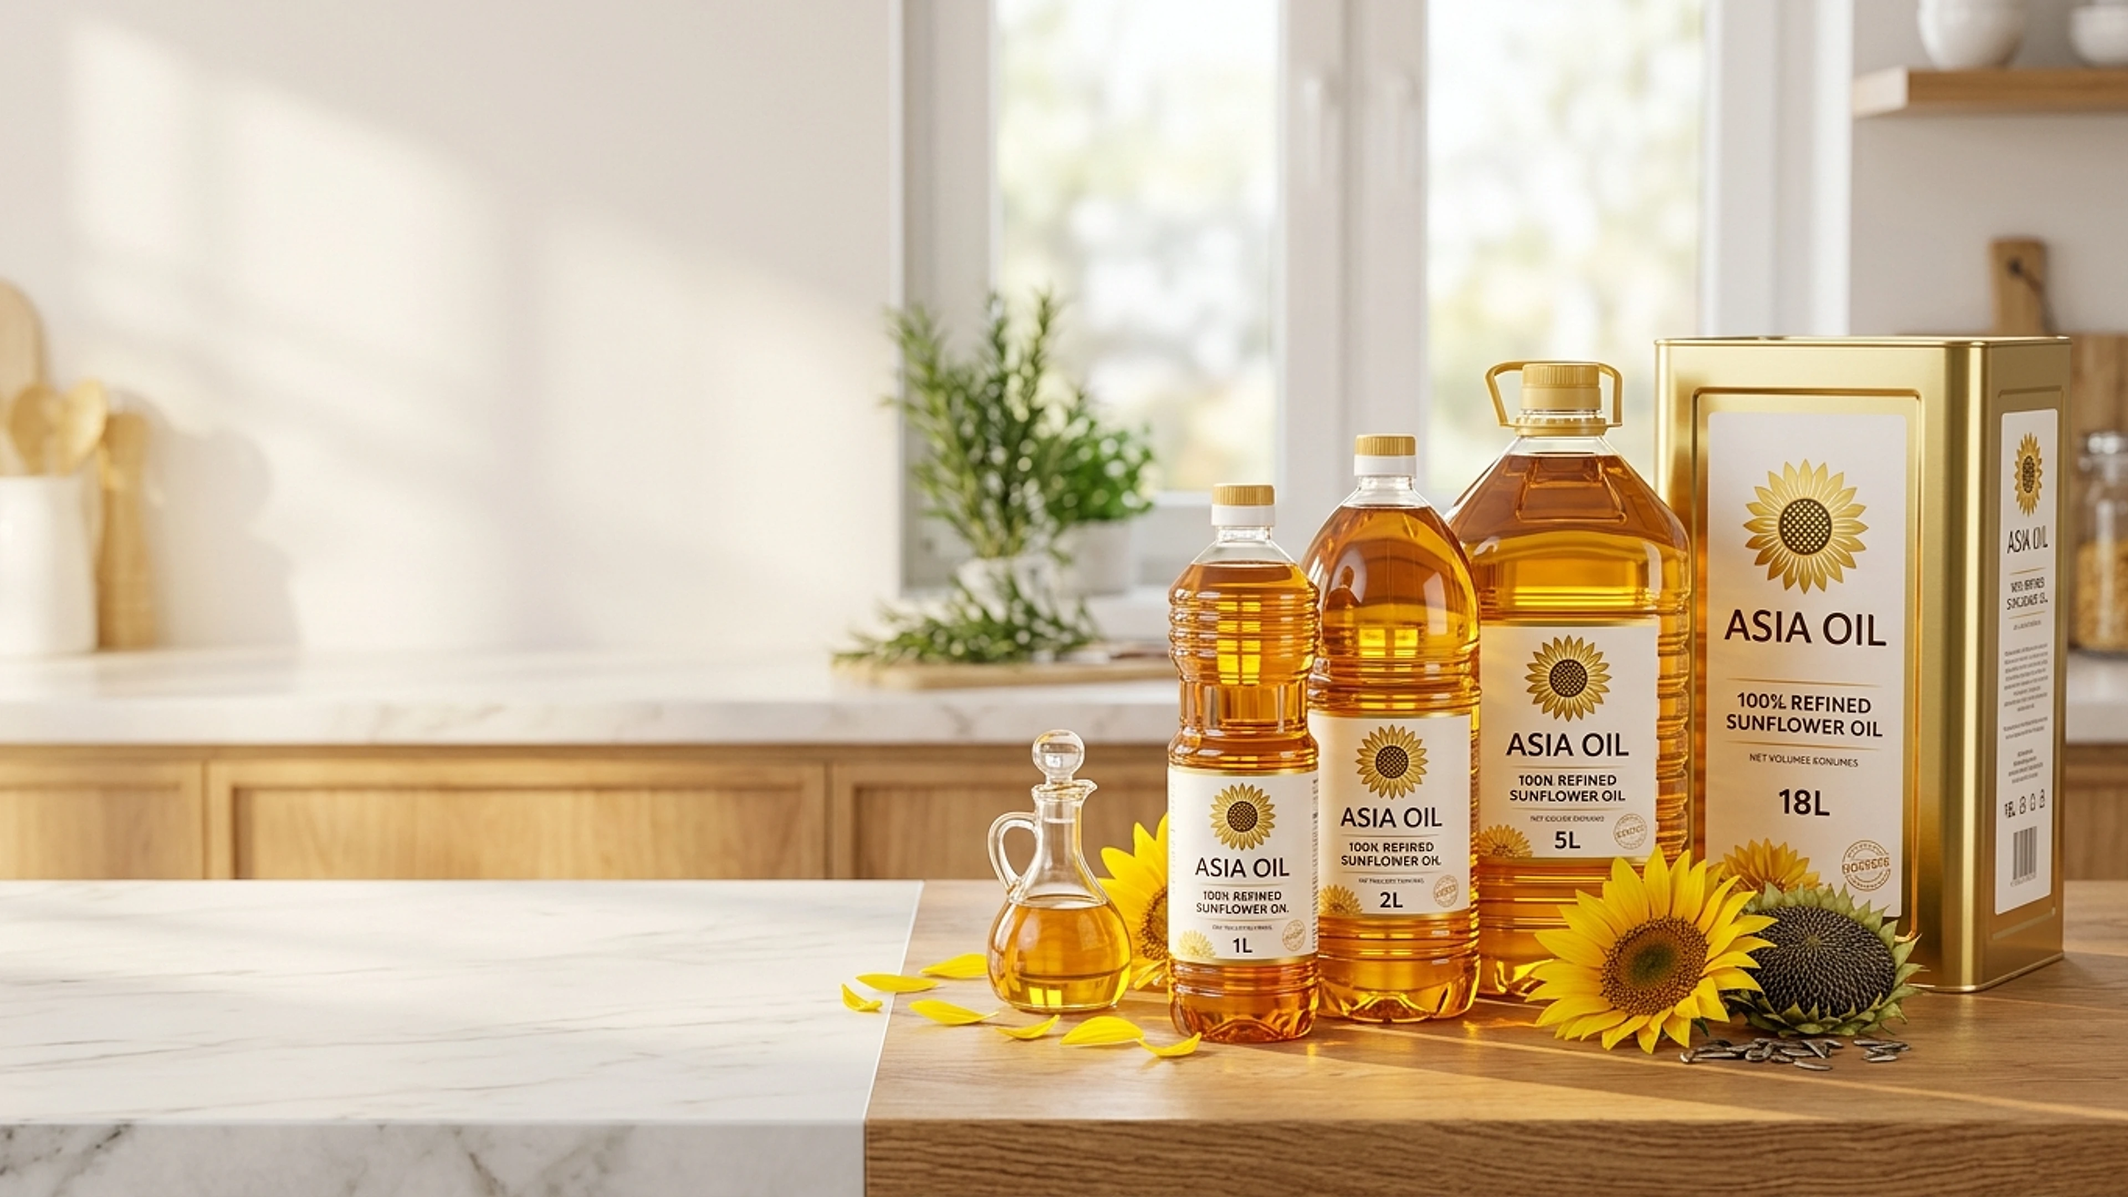
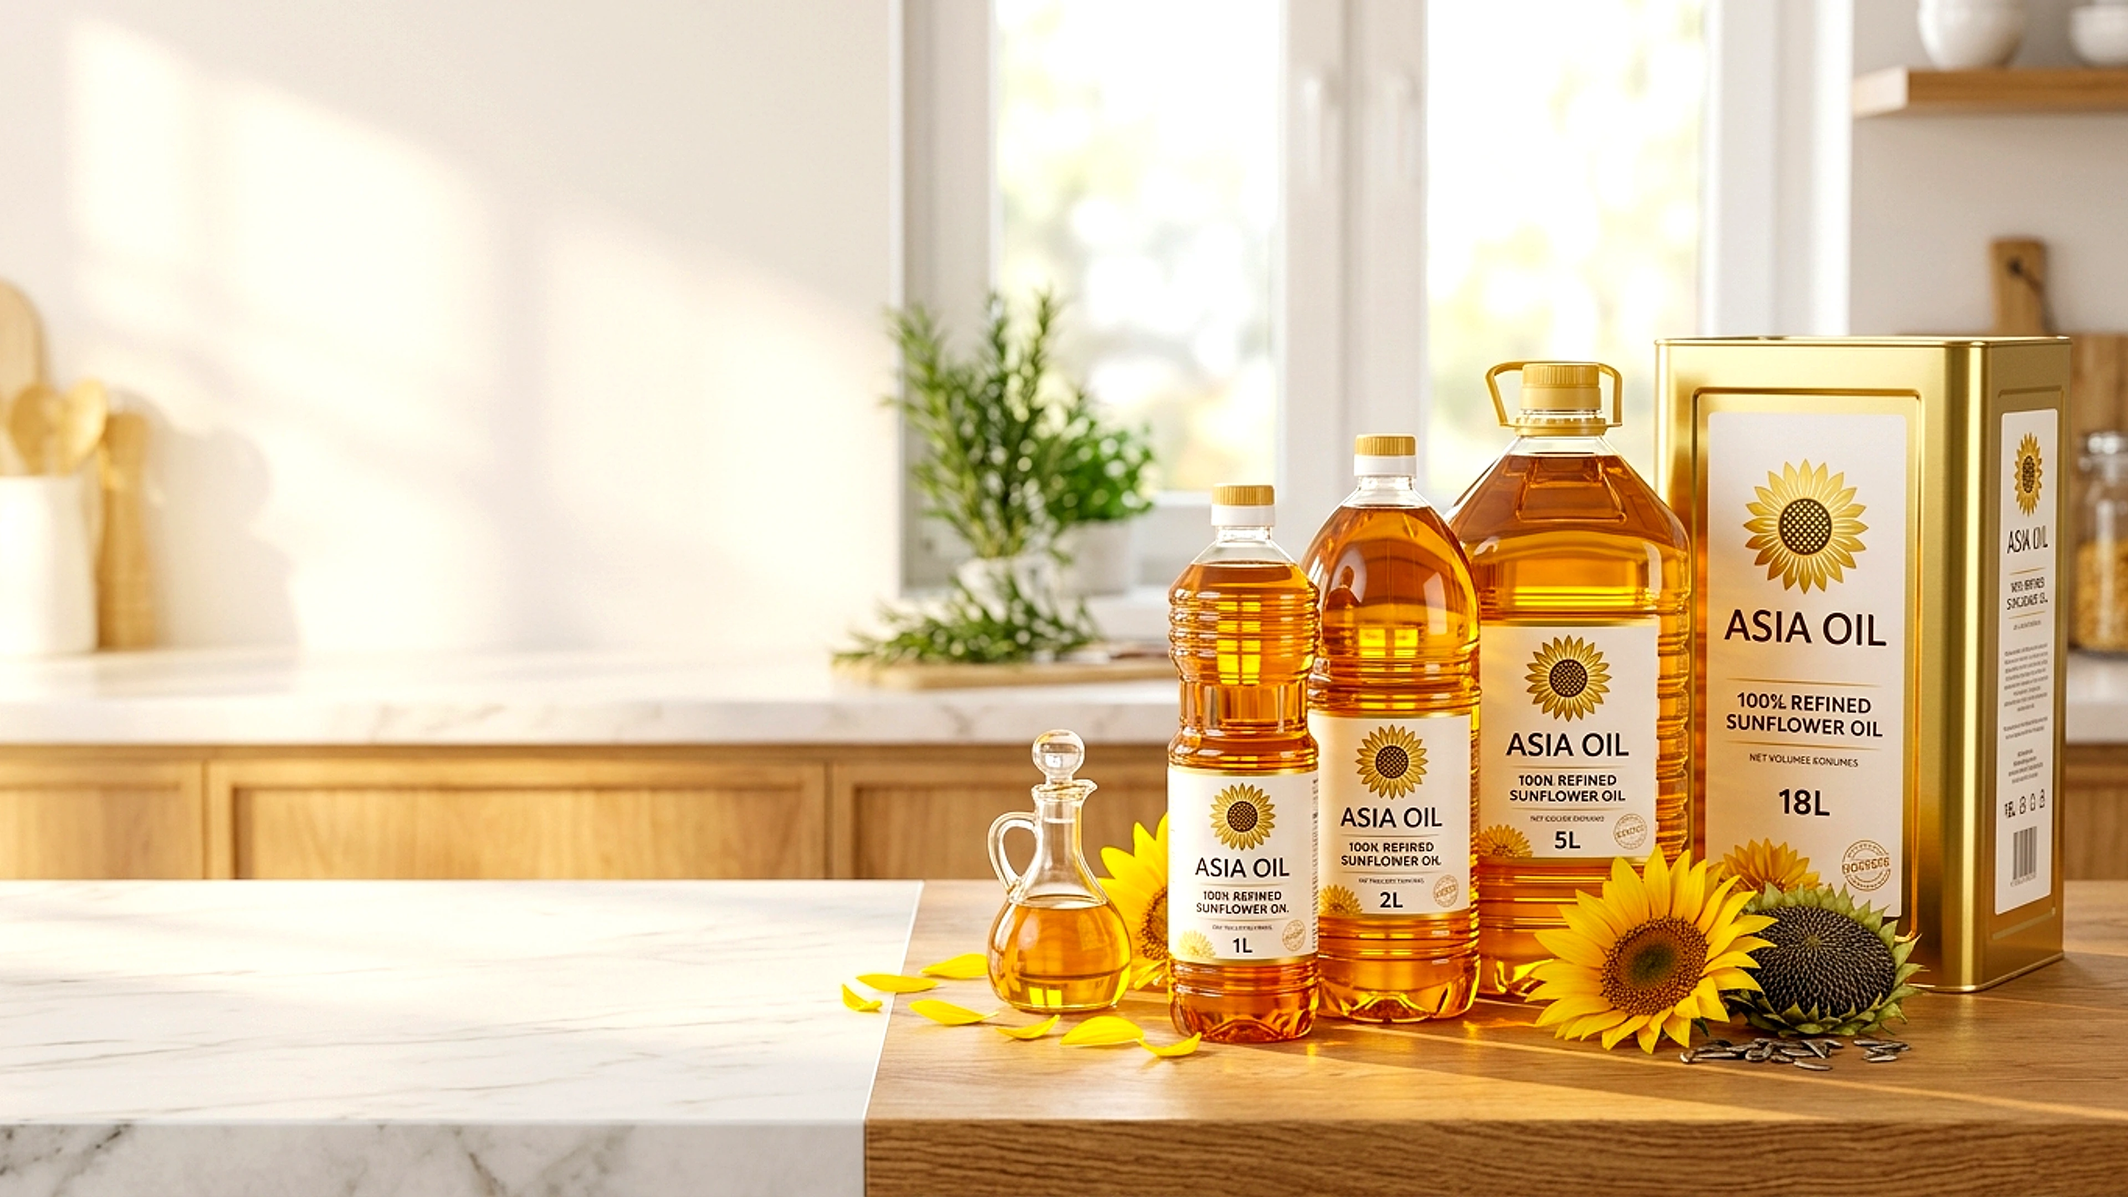
style(hero): boost 4K image contrast, remove right-side haze, and elevate typography/button/indicator contrast

diff --git a/src/components/site/hero-banner.tsx b/src/components/site/hero-banner.tsx
@@ -1,6 +1,6 @@
 "use client"
 
-import { useCallback, useEffect, useState } from "react"
+import { useCallback, useEffect, useRef, useState } from "react"
 import type { Locale } from "@/lib/i18n/config"
 import { pathFor } from "@/lib/i18n/config"
 
@@ -292,6 +292,8 @@ const UI_COPY: Record<
   },
 }
 
+const KEN_BURNS = ["kb-a", "kb-b", "kb-c", "kb-d", "kb-e"]
+
 const MARQUEE_ITEMS = [
   "DIRECT EDIBLE OIL MANUFACTURER",
   "REFINED SUNFLOWER OIL EXPORTER",
@@ -309,25 +311,62 @@ export function HeroBanner({
   whatsappNumber = "+90 543 975 01 32",
   labels,
 }: Props) {
-  const [current, setCurrent] = useState(0)
+  // `cycle` increments on every slide change so the active image's Ken Burns run restarts via its key.
+  const [slideState, setSlideState] = useState({ current: 0, previous: -1, cycle: 0 })
+  const { current, previous, cycle } = slideState
   const [isPaused, setIsPaused] = useState(false)
+  const sectionRef = useRef<HTMLElement>(null)
   const isRtl = locale === "ar"
   const cleanWa = whatsappNumber.replace(/\D/g, "") || "905439750132"
   const ui = UI_COPY[locale] || UI_COPY.en
 
-  const nextSlide = useCallback(() => {
-    setCurrent((prev) => (prev + 1) % SLIDES.length)
+  const goTo = useCallback((resolve: (prev: number) => number) => {
+    setSlideState((state) => {
+      const next = ((resolve(state.current) % SLIDES.length) + SLIDES.length) % SLIDES.length
+      if (next === state.current) return state
+      return { current: next, previous: state.current, cycle: state.cycle + 1 }
+    })
   }, [])
 
-  const prevSlide = useCallback(() => {
-    setCurrent((prev) => (prev - 1 + SLIDES.length) % SLIDES.length)
-  }, [])
+  const nextSlide = useCallback(() => goTo((prev) => prev + 1), [goTo])
+  const prevSlide = useCallback(() => goTo((prev) => prev - 1), [goTo])
 
   useEffect(() => {
     if (isPaused) return
     const interval = setInterval(nextSlide, 7000)
     return () => clearInterval(interval)
   }, [isPaused, nextSlide])
+
+  useEffect(() => {
+    const section = sectionRef.current
+    if (!section) return
+    const motion = window.matchMedia("(prefers-reduced-motion: reduce)")
+    let frame = 0
+
+    const update = () => {
+      frame = 0
+      if (motion.matches) {
+        section.style.removeProperty("--hero-py")
+        return
+      }
+      const offset = Math.min(section.offsetHeight, Math.max(0, -section.getBoundingClientRect().top))
+      section.style.setProperty("--hero-py", `${(offset * 0.28).toFixed(1)}px`)
+    }
+    const schedule = () => {
+      if (!frame) frame = window.requestAnimationFrame(update)
+    }
+
+    update()
+    window.addEventListener("scroll", schedule, { passive: true })
+    window.addEventListener("resize", schedule)
+    motion.addEventListener("change", schedule)
+    return () => {
+      if (frame) window.cancelAnimationFrame(frame)
+      window.removeEventListener("scroll", schedule)
+      window.removeEventListener("resize", schedule)
+      motion.removeEventListener("change", schedule)
+    }
+  }, [])
 
   const activeSlide = SLIDES[current]
   const tag = activeSlide.tag[locale] || activeSlide.tag.en
@@ -343,6 +382,7 @@ export function HeroBanner({
 
   return (
     <section
+      ref={sectionRef}
       className="relative min-h-[92vh] flex flex-col justify-between overflow-hidden bg-slate-50 text-slate-900 select-none border-b border-slate-200/80"
       onMouseEnter={() => setIsPaused(true)}
       onMouseLeave={() => setIsPaused(false)}
@@ -350,23 +390,25 @@ export function HeroBanner({
       aria-label={title}
     >
       {/* Background 4K Visual Showcase */}
-      <div className="absolute inset-0 z-0 overflow-hidden pointer-events-none">
+      <div className="hero-stage absolute inset-0 z-0 overflow-hidden pointer-events-none">
         {SLIDES.map((slide, idx) => {
           const isCurrent = idx === current
+          const isPrevious = idx === previous
           const isNext = idx === (current + 1) % SLIDES.length
-          const shouldRenderImg = idx === 0 || isCurrent || isNext
+          const shouldRenderImg = idx === 0 || isCurrent || isPrevious || isNext
           const slideTitle = slide.title[locale] || slide.title.en
+          // The current run gets a fresh key; the outgoing slide keeps its key so its motion freezes mid-fade.
+          const imageKey = isCurrent ? `kb-${cycle}` : isPrevious ? `kb-${cycle - 1}` : slide.image
           return (
             <div
               key={slide.image}
               aria-hidden={!isCurrent}
-              className={`absolute inset-0 transition-opacity duration-1000 ease-in-out ${
-                isCurrent ? "opacity-100" : "opacity-0"
-              }`}
+              className={`hero-slide absolute inset-0 ${isCurrent ? "opacity-100" : "opacity-0"}`}
             >
               {shouldRenderImg && (
                 /* eslint-disable-next-line @next/next/no-img-element */
                 <img
+                  key={imageKey}
                   src={slide.image}
                   alt={slideTitle}
                   width={3840}
@@ -374,58 +416,59 @@ export function HeroBanner({
                   decoding={idx === 0 ? "sync" : "async"}
                   fetchPriority={idx === 0 ? "high" : "low"}
                   loading={idx === 0 ? "eager" : "lazy"}
-                  className={`absolute inset-0 w-full h-full object-cover object-right transform transition-transform duration-[8000ms] ${
-                    isCurrent ? "scale-105" : "scale-100"
-                  }`}
+                  className={`absolute inset-0 w-full h-full object-cover object-right contrast-[1.08] saturate-[1.08] ${
+                    isCurrent || isPrevious ? KEN_BURNS[idx % KEN_BURNS.length] : ""
+                  } ${isPrevious ? "kb-hold" : ""}`}
                 />
               )}
               <div
                 className={`absolute inset-0 bg-gradient-to-r ${
                   isRtl
-                    ? "from-white/15 via-white/80 via-45% to-white/96"
-                    : "from-white/96 via-white/80 via-45% to-white/15"
+                    ? "from-transparent via-white/92 via-62% to-white"
+                    : "from-white via-white/92 via-38% to-transparent"
                 }`}
               />
-              <div className="absolute inset-0 bg-gradient-to-t from-slate-50/90 via-transparent via-55% to-white/50" />
             </div>
           )
         })}
       </div>
 
-      <div className="hero-grid absolute inset-0 z-0 opacity-35 pointer-events-none" />
+      <div className="hero-grid absolute inset-0 z-0 opacity-25 pointer-events-none" />
 
       {/* Main Slide Content */}
       <div className="container-x relative z-10 pt-16 sm:pt-24 pb-12 flex-1 flex flex-col justify-center">
-        <div className="max-w-3xl space-y-6">
-          <div className="inline-flex items-center gap-2.5 px-4 py-1.5 rounded-full bg-emerald-50 border border-emerald-200/80 text-emerald-800 text-xs font-black tracking-widest uppercase shadow-xs backdrop-blur-md">
-            <span className="w-2 h-2 rounded-full bg-emerald-500 animate-pulse" />
+        <div key={cycle} className="max-w-3xl space-y-6">
+          <div className="rise inline-flex items-center gap-2.5 px-4 py-1.5 rounded-full bg-emerald-950 border border-emerald-700 text-white text-xs font-black tracking-widest uppercase shadow-md">
+            <span className="w-2.5 h-2.5 rounded-full bg-amber-400 animate-pulse" />
             <span>{tag}</span>
           </div>
 
-          <h1 className="font-display text-4xl sm:text-5xl lg:text-6xl font-black tracking-tight leading-[1.08] text-slate-900">
+          <h1 className="rise rise-1 font-display text-4xl sm:text-5xl lg:text-6xl font-black tracking-tight leading-[1.06] text-slate-950 drop-shadow-[0_1px_1px_rgba(255,255,255,0.9)]">
             {title}
           </h1>
 
-          <p className="geo-summary text-base sm:text-lg text-slate-600 leading-relaxed max-w-2xl font-normal">
+          <p className="rise rise-2 geo-summary text-base sm:text-lg text-slate-800 leading-relaxed max-w-2xl font-medium">
             {subtitle}
           </p>
 
-          <div className="flex flex-wrap gap-2.5 pt-2">
+          <div className="rise rise-3 flex flex-wrap gap-2.5 pt-2">
             {highlights.map((h) => (
               <span
                 key={h}
-                className="px-3.5 py-1.5 rounded-xl bg-white/95 hover:bg-white border border-slate-200/90 text-xs font-semibold text-slate-700 shadow-xs backdrop-blur-md flex items-center gap-2 transition hover:border-emerald-300"
+                className="px-3.5 py-2 rounded-xl bg-white border-2 border-slate-300 text-xs font-extrabold text-slate-950 shadow-sm flex items-center gap-2 transition hover:border-emerald-600"
               >
-                <span className="text-emerald-600 font-bold">✓</span>
+                <span className="w-4 h-4 rounded-full bg-emerald-600 text-white text-[10px] font-black inline-flex items-center justify-center">
+                  ✓
+                </span>
                 {h}
               </span>
             ))}
           </div>
 
-          <div className="flex flex-wrap items-center gap-4 pt-4">
+          <div className="rise rise-4 flex flex-wrap items-center gap-4 pt-4">
             <a
               href={pathFor(locale, "quote")}
-              className="px-8 py-4 rounded-xl bg-gradient-to-r from-emerald-600 via-teal-600 to-emerald-700 hover:from-emerald-500 hover:to-teal-500 text-white font-extrabold text-sm tracking-wide shadow-lg shadow-emerald-600/25 hover:shadow-xl hover:shadow-emerald-600/35 hover:scale-105 active:scale-95 transition-all duration-200 flex items-center gap-2"
+              className="px-8 py-4 rounded-xl bg-emerald-700 hover:bg-emerald-800 border-2 border-emerald-800 text-white font-black text-sm tracking-wide shadow-xl shadow-emerald-950/25 hover:scale-105 active:scale-95 transition-all duration-200 flex items-center gap-2"
             >
               <span>📦</span>
               <span>{ui.ctaQuote}</span>
@@ -435,15 +478,15 @@ export function HeroBanner({
               href={`https://wa.me/${cleanWa}?text=${whatsappPrefill}`}
               target="_blank"
               rel="noopener noreferrer"
-              className="px-6 py-4 rounded-xl bg-white hover:bg-emerald-50/80 border border-emerald-300 text-emerald-800 font-bold text-sm shadow-xs backdrop-blur-md hover:scale-105 active:scale-95 transition-all duration-200 flex items-center gap-2"
+              className="px-6 py-4 rounded-xl bg-white hover:bg-emerald-50 border-2 border-emerald-600 text-emerald-950 font-extrabold text-sm shadow-md hover:scale-105 active:scale-95 transition-all duration-200 flex items-center gap-2"
             >
-              <span className="w-2.5 h-2.5 rounded-full bg-emerald-500 animate-pulse" />
+              <span className="w-2.5 h-2.5 rounded-full bg-emerald-600 animate-pulse" />
               <span>WhatsApp: {whatsappNumber}</span>
             </a>
 
             <a
               href={pathFor(locale, "sunflower")}
-              className="px-6 py-4 rounded-xl bg-white hover:bg-slate-50 border border-slate-200 text-slate-800 font-bold text-sm shadow-xs backdrop-blur-md hover:border-slate-300 transition"
+              className="px-6 py-4 rounded-xl bg-slate-950 hover:bg-slate-800 border-2 border-slate-950 text-white font-extrabold text-sm shadow-md transition"
             >
               {ui.ctaProducts} &rarr;
             </a>
@@ -460,7 +503,7 @@ export function HeroBanner({
             type="button"
             onClick={prevSlide}
             aria-label={labels.previous}
-            className="w-12 h-12 rounded-full bg-white/90 hover:bg-white border border-slate-200 text-slate-800 grid place-items-center shadow-md backdrop-blur-md transition hover:scale-110 active:scale-90 cursor-pointer"
+            className="w-12 h-12 rounded-full bg-slate-950/90 hover:bg-emerald-700 border-2 border-white/90 text-white grid place-items-center shadow-xl transition hover:scale-110 active:scale-90 cursor-pointer"
           >
             <svg className="w-5 h-5" fill="none" stroke="currentColor" viewBox="0 0 24 24">
               <path strokeLinecap="round" strokeLinejoin="round" strokeWidth="2.5" d="M15 19l-7-7 7-7" />
@@ -470,7 +513,7 @@ export function HeroBanner({
             type="button"
             onClick={nextSlide}
             aria-label={labels.next}
-            className="w-12 h-12 rounded-full bg-white/90 hover:bg-white border border-slate-200 text-slate-800 grid place-items-center shadow-md backdrop-blur-md transition hover:scale-110 active:scale-90 cursor-pointer"
+            className="w-12 h-12 rounded-full bg-slate-950/90 hover:bg-emerald-700 border-2 border-white/90 text-white grid place-items-center shadow-xl transition hover:scale-110 active:scale-90 cursor-pointer"
           >
             <svg className="w-5 h-5" fill="none" stroke="currentColor" viewBox="0 0 24 24">
               <path strokeLinecap="round" strokeLinejoin="round" strokeWidth="2.5" d="M9 5l7 7-7 7" />
@@ -480,7 +523,7 @@ export function HeroBanner({
       </div>
 
       {/* Bottom Strip: 5 Slide Indicators */}
-      <div className="relative z-10 border-t border-slate-200/80 bg-white/85 backdrop-blur-xl py-4">
+      <div className="relative z-10 border-t-2 border-slate-300 bg-white/95 backdrop-blur-xl py-4 shadow-[0_-8px_24px_rgba(15,23,42,0.08)]">
         <div className="container-x">
           <div className="grid grid-cols-2 sm:grid-cols-5 gap-3">
             {SLIDES.map((slide, i) => {
@@ -490,33 +533,33 @@ export function HeroBanner({
                 <button
                   key={slide.image}
                   type="button"
-                  onClick={() => setCurrent(i)}
-                  className={`relative text-left p-3.5 rounded-2xl transition border cursor-pointer ${
+                  onClick={() => goTo(() => i)}
+                  className={`relative text-left p-3.5 rounded-2xl transition border-2 cursor-pointer ${
                     isActive
-                      ? "bg-white border-emerald-500 shadow-md ring-2 ring-emerald-500/20"
-                      : "bg-white/60 border-slate-200/80 hover:bg-white hover:border-slate-300 shadow-xs"
+                      ? "bg-slate-950 border-emerald-500 text-white shadow-lg ring-2 ring-emerald-500/30"
+                      : "bg-slate-50 border-slate-300 hover:bg-white hover:border-emerald-600 text-slate-900 shadow-xs"
                   }`}
                 >
-                  <div className="flex items-center justify-between text-[10px] font-mono font-bold mb-1">
-                    <span className={isActive ? "text-emerald-700 font-extrabold" : "text-slate-400"}>
+                  <div className="flex items-center justify-between text-[11px] font-mono font-extrabold mb-1">
+                    <span className={isActive ? "text-amber-400" : "text-emerald-800"}>
                       0{i + 1}
                     </span>
                     {isActive && (
-                      <span className="text-emerald-600 font-sans text-[9px] uppercase tracking-wider font-extrabold">
+                      <span className="px-2 py-0.5 rounded-full bg-emerald-500/20 border border-emerald-400/40 text-emerald-300 font-sans text-[9px] uppercase tracking-wider font-black">
                         {ui.activeBadge}
                       </span>
                     )}
                   </div>
                   <p
-                    className={`text-xs font-bold line-clamp-1 leading-snug ${
-                      isActive ? "text-slate-900" : "text-slate-600"
+                    className={`text-xs font-extrabold line-clamp-1 leading-snug ${
+                      isActive ? "text-white" : "text-slate-900"
                     }`}
                   >
                     {slideTitle}
                   </p>
 
                   {isActive && (
-                    <div className="absolute bottom-0 left-0 right-0 h-1 bg-gradient-to-r from-emerald-500 via-teal-500 to-cyan-500 rounded-b-2xl animate-pulse" />
+                    <div className="absolute bottom-0 left-0 right-0 h-1 bg-gradient-to-r from-amber-400 via-emerald-400 to-teal-400 rounded-b-2xl" />
                   )}
                 </button>
               )
@@ -527,13 +570,13 @@ export function HeroBanner({
 
       {/* Marquee Ticker */}
       <div
-        className="relative z-10 border-t border-slate-200/80 bg-slate-100/90 py-2.5 overflow-hidden"
+        className="relative z-10 border-t border-slate-800 bg-slate-950 py-3 overflow-hidden"
         aria-hidden
       >
-        <div className="marquee flex w-max gap-8 font-mono text-[11px] uppercase tracking-[.25em] text-slate-500">
+        <div className="marquee flex w-max gap-8 font-mono text-[11px] font-bold uppercase tracking-[.25em] text-slate-100">
           {[...MARQUEE_ITEMS, ...MARQUEE_ITEMS, ...MARQUEE_ITEMS].map((kw, i) => (
             <span key={`${kw}-${i}`} className="whitespace-nowrap flex items-center gap-4">
-              <span className="text-emerald-600 font-bold">&bull;</span>
+              <span className="text-amber-400 font-black">&bull;</span>
               {kw}
             </span>
           ))}

diff --git a/src/app/globals.css b/src/app/globals.css
@@ -260,6 +260,51 @@ html[lang="ar"] .font-display,
   animation: hero-zoom 16s var(--ease-out) forwards;
 }
 
+/* Home hero banner: scroll parallax stage, long crossfade and a different Ken Burns path per slide. */
+.hero-stage {
+  transform: translate3d(0, var(--hero-py, 0px), 0);
+  will-change: transform;
+}
+
+.hero-slide {
+  transition: opacity 1.6s var(--ease-out);
+}
+
+.kb-a { animation: kb-a 12s linear forwards; }
+.kb-b { animation: kb-b 12s linear forwards; }
+.kb-c { animation: kb-c 12s linear forwards; }
+.kb-d { animation: kb-d 12s linear forwards; }
+.kb-e { animation: kb-e 12s linear forwards; }
+
+.kb-hold {
+  animation-play-state: paused;
+}
+
+@keyframes kb-a {
+  from { transform: scale(1.06) translate(0, 0); }
+  to { transform: scale(1.18) translate(-2.5%, -1.5%); }
+}
+
+@keyframes kb-b {
+  from { transform: scale(1.18) translate(2%, 1%); }
+  to { transform: scale(1.06) translate(0, 0); }
+}
+
+@keyframes kb-c {
+  from { transform: scale(1.06) translate(-2%, 1.5%); }
+  to { transform: scale(1.16) translate(1.5%, -1%); }
+}
+
+@keyframes kb-d {
+  from { transform: scale(1.16) translate(0, -2%); }
+  to { transform: scale(1.06) translate(-1.5%, 1.5%); }
+}
+
+@keyframes kb-e {
+  from { transform: scale(1.06) translate(2%, -1%); }
+  to { transform: scale(1.2) translate(-1%, 2%); }
+}
+
 /* Scroll-driven motion. Browsers without support just show the content. */
 @supports (animation-timeline: view()) {
   .reveal {
@@ -561,6 +606,11 @@ details .acc > * {
   }
 
   .hero-zoom,
+  .kb-a,
+  .kb-b,
+  .kb-c,
+  .kb-d,
+  .kb-e,
   .rise,
   .mask-word > span,
   .reveal,
@@ -584,8 +634,13 @@ details .acc > * {
     transform: none;
   }
 
-  .tilt {
+  .tilt,
+  .hero-stage {
     transform: none !important;
+  }
+
+  .hero-slide {
+    transition-duration: 0.3s;
   }
 
   ::view-transition-old(root),
